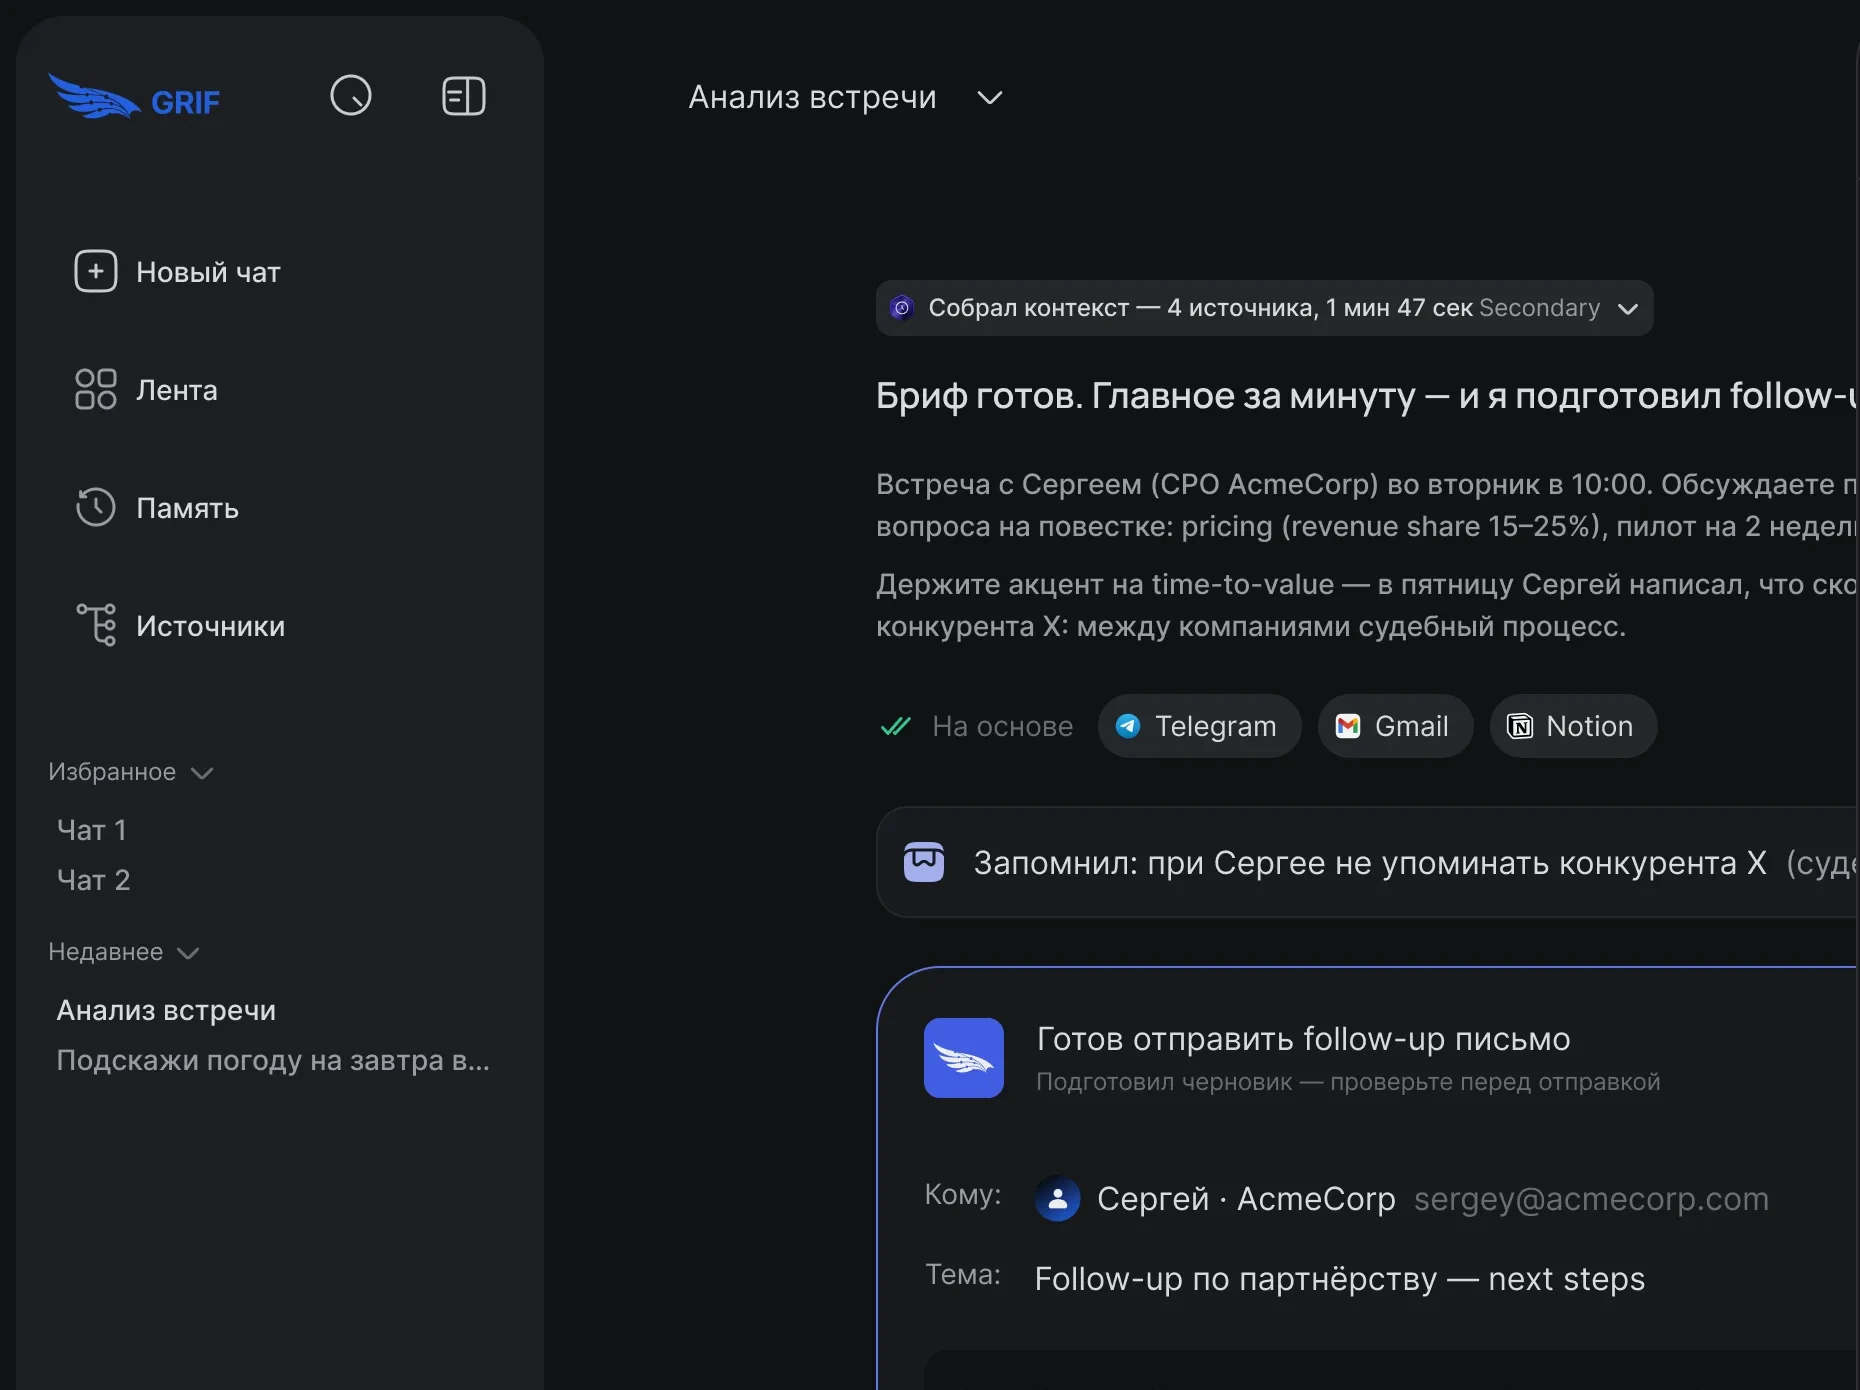
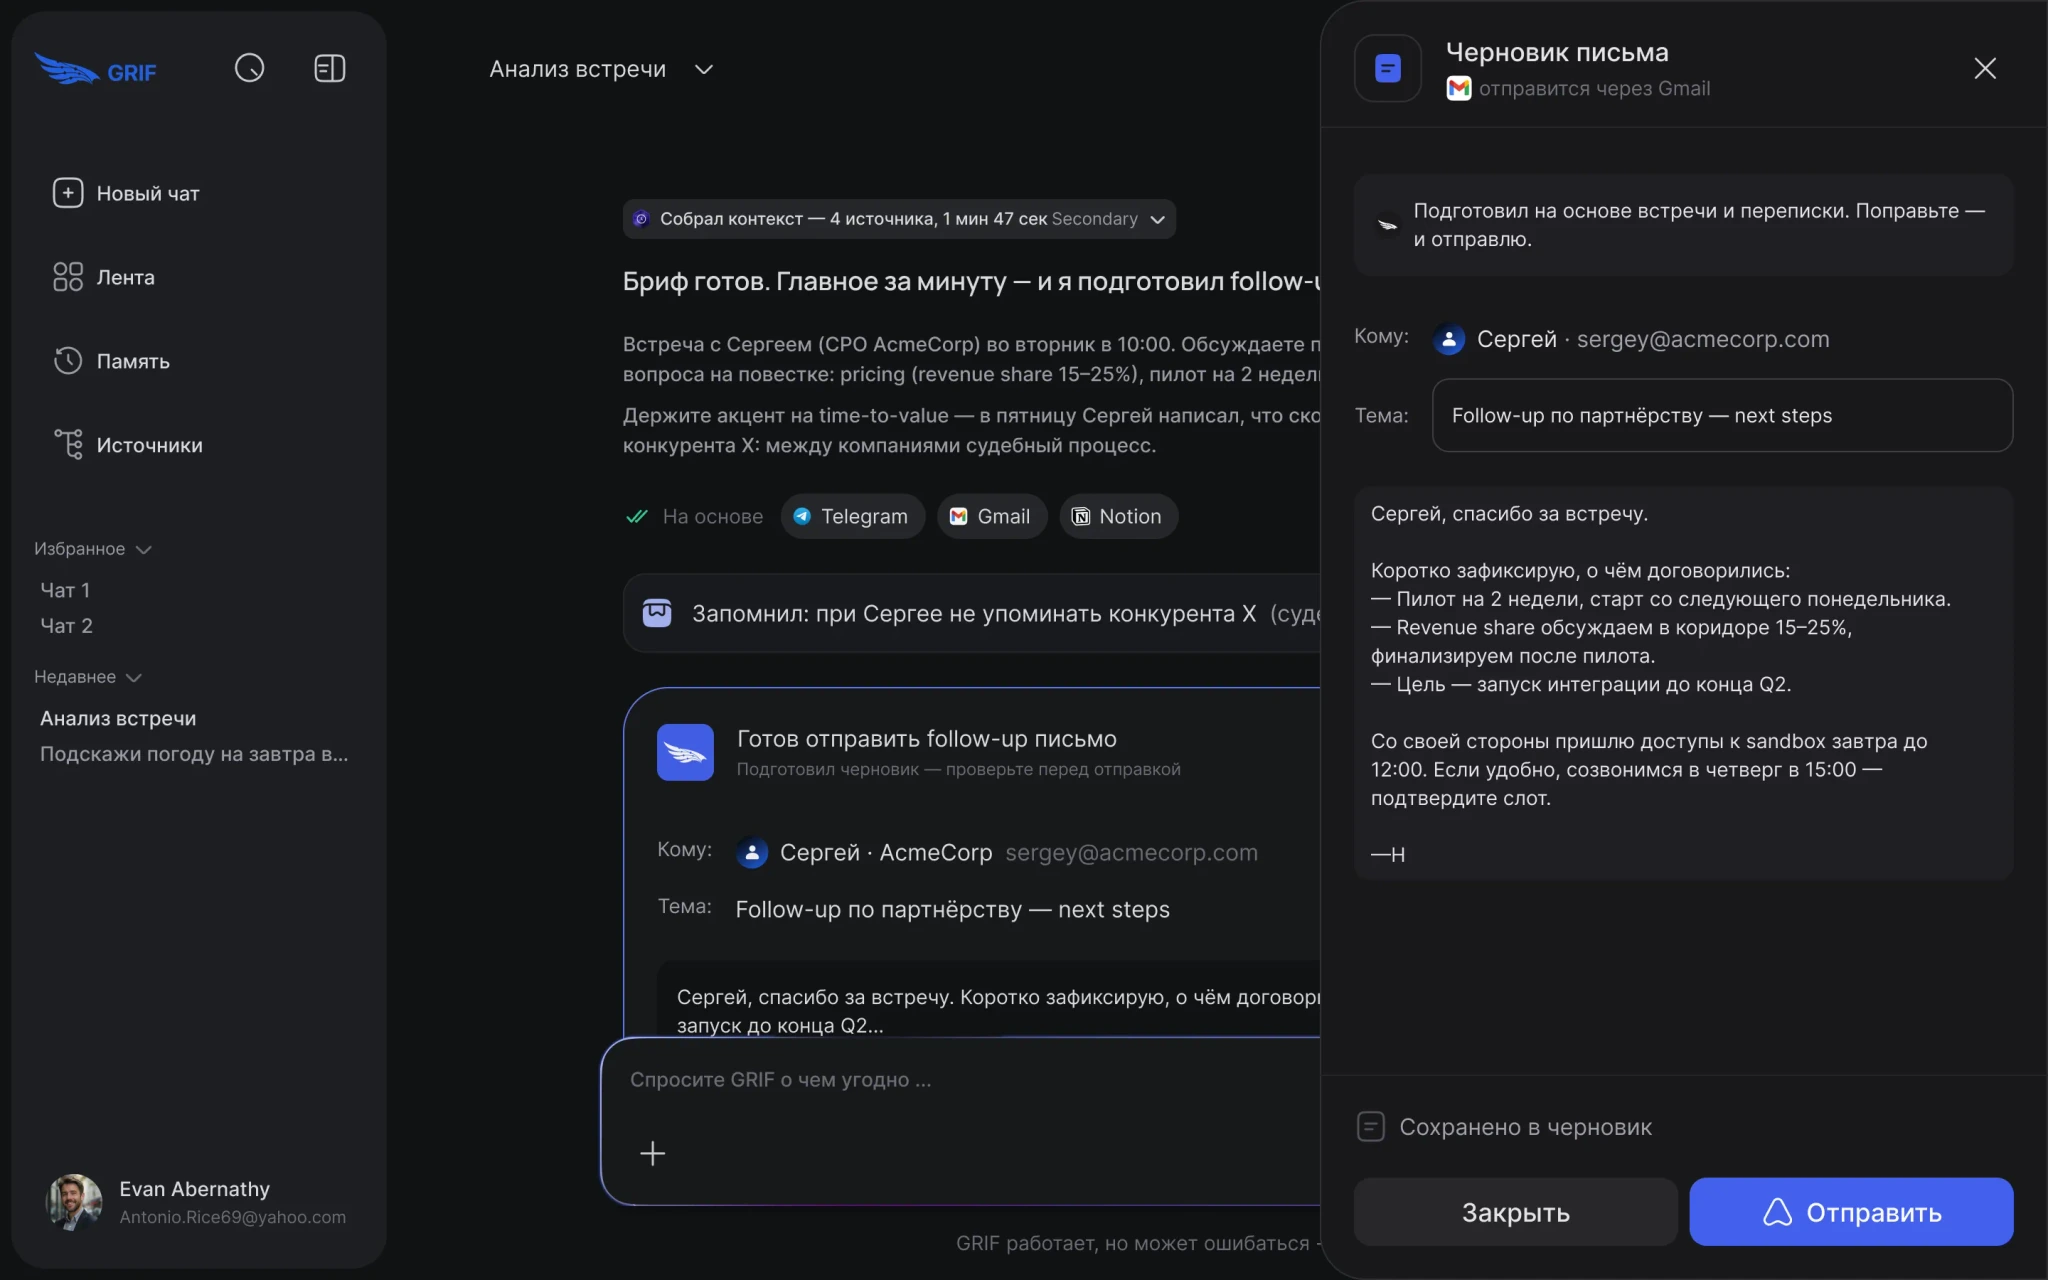
No "Next" row in the Work chapter; GRIF AI shows its whole screen
The case list on the left already shows every case, so the "Next" row
above the scene is gone on all screens. The GRIF AI scene now shows the
whole chat frame from Figma, with the email draft panel on the right and
the input at the bottom, instead of a crop.

diff --git a/src/caseScene/grif.ts b/src/caseScene/grif.ts
@@ -1,7 +1,7 @@
 /* v78: сцена кейса GRIF AI. Раскладка — по референсу Никиты (assets-src/ref-grif-ai.png): панель чата на
    парящем острове со светящимися горизонталями, за ней стеклянный пузырь, вокруг стеклянные карточки.
    Содержимое — из Figma-файла продукта (fpMhI2lUFjbMoiZVOVcJHe, «New concept»):
-   - главная панель — чат «Анализ встречи» (кадр 05), рендер Figma 2× без правой шторки;
+   - главная панель — чат «Анализ встречи» (кадр 05) целиком, с шторкой черновика справа, рендер Figma 2×;
    - спутники — оттуда же: «Собрал контекст», черновик письма Сергею через Gmail, договорённости встречи
      и память «при Сергее не упоминать конкурента X».
    Референс придумал «Резюме встречи, готово за 10 секунд» — здесь время из самого экрана: 1 мин 47 сек. */
@@ -85,7 +85,7 @@ export function createGrifScene(canvas: HTMLCanvasElement): CaseScene {
 
       const ts = k.texScale();
       const im = await caseImage("grif-ai/scene/chat.webp");
-      const iw = 560, ih = (iw * im.height) / im.width;
+      const iw = 620, ih = (iw * im.height) / im.width;
       k.card({ size: [iw + 26, ih + 26], radius: 34, glass: 0.35, tint: "#2a2d22", halo: 0, c: [922, 470], z: -45, r: [-6, 14, 4], delay: 0.08, amp: 3, order: 1 });
       k.card({ map: k.imageTexture(im), size: [iw + 30, ih + 30], inner: [iw, ih], radius: 34, innerRadius: 20, glass: 0.5, tint: "#3a3e2a", warm: 0.4, halo: 0.34, margin: 70, c: [898, 462], z: 0, r: [-6, 14, 4], delay: 0, amp: 3, order: 5 });
 

diff --git a/src/ui/cases-card.css b/src/ui/cases-card.css
@@ -106,6 +106,8 @@
 .cx-card.is-scene { background: none; box-shadow: none; }
 /* телефон, кейс со сценой: строки «Далее» нет — кейсы листают кнопки внизу, а сцена занимает верх экрана */
 .cases.is-narrow .cx.has-scene .cx-next { display: none; }
+/* v78: строку «Далее» убрали совсем — слева и так виден весь список кейсов, а на телефоне листают кнопки внизу */
+.cases[data-preview="card"] .cx-next { display: none; }
 .cx-card--dio .cx-shot { width: 100%; height: 100%; object-fit: cover; }
 .cx-dio-img { display: block; width: 100%; height: 100%; user-select: none; -webkit-user-drag: none; filter: drop-shadow(0 0 14px rgba(var(--gl), 0.3)); }
 .cx-dio-screen { position: absolute; left: 0; top: 0; transform-origin: 0 0; overflow: hidden; border-radius: 96px; background: #0b0d10; backface-visibility: hidden; }
